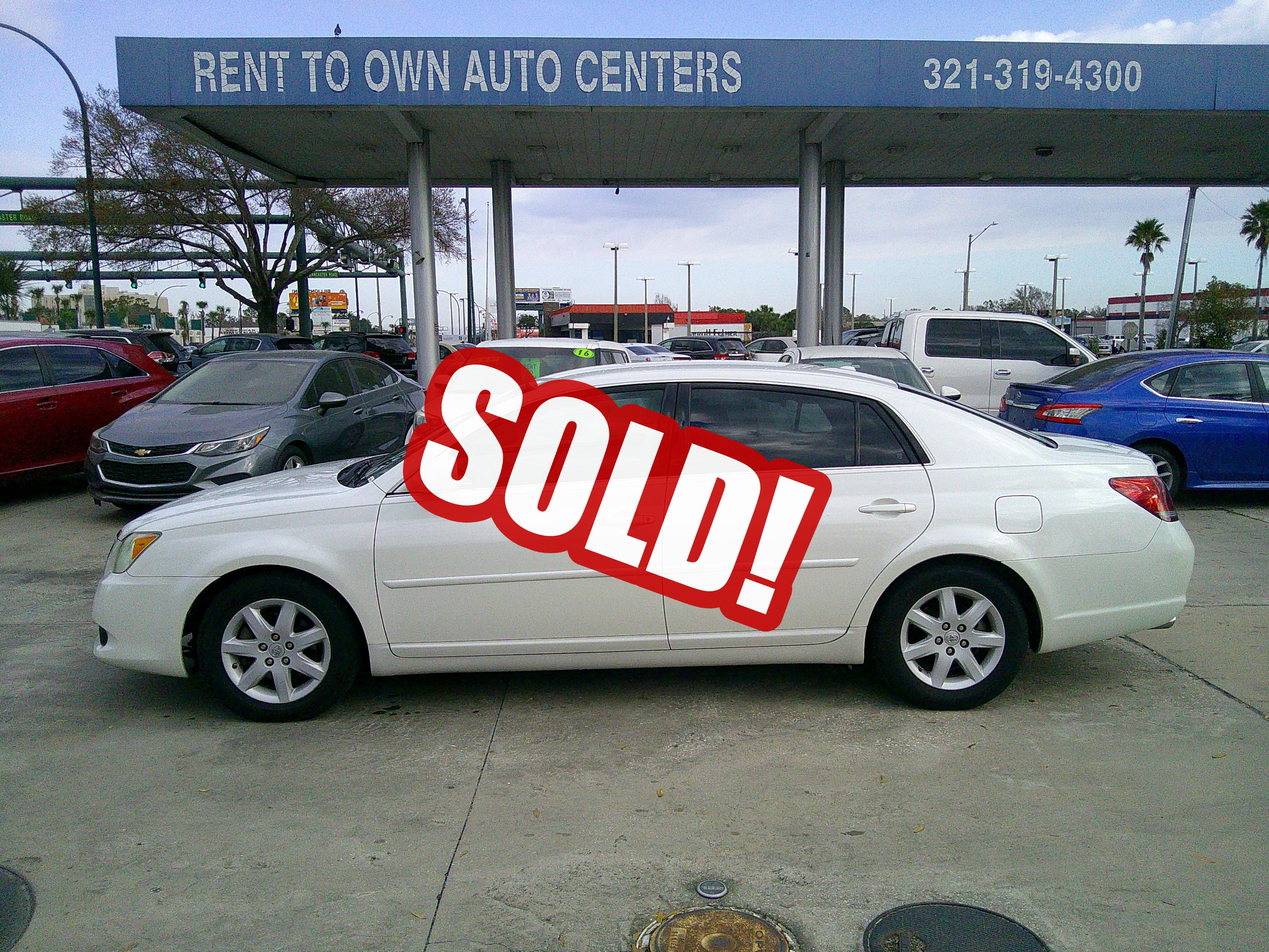
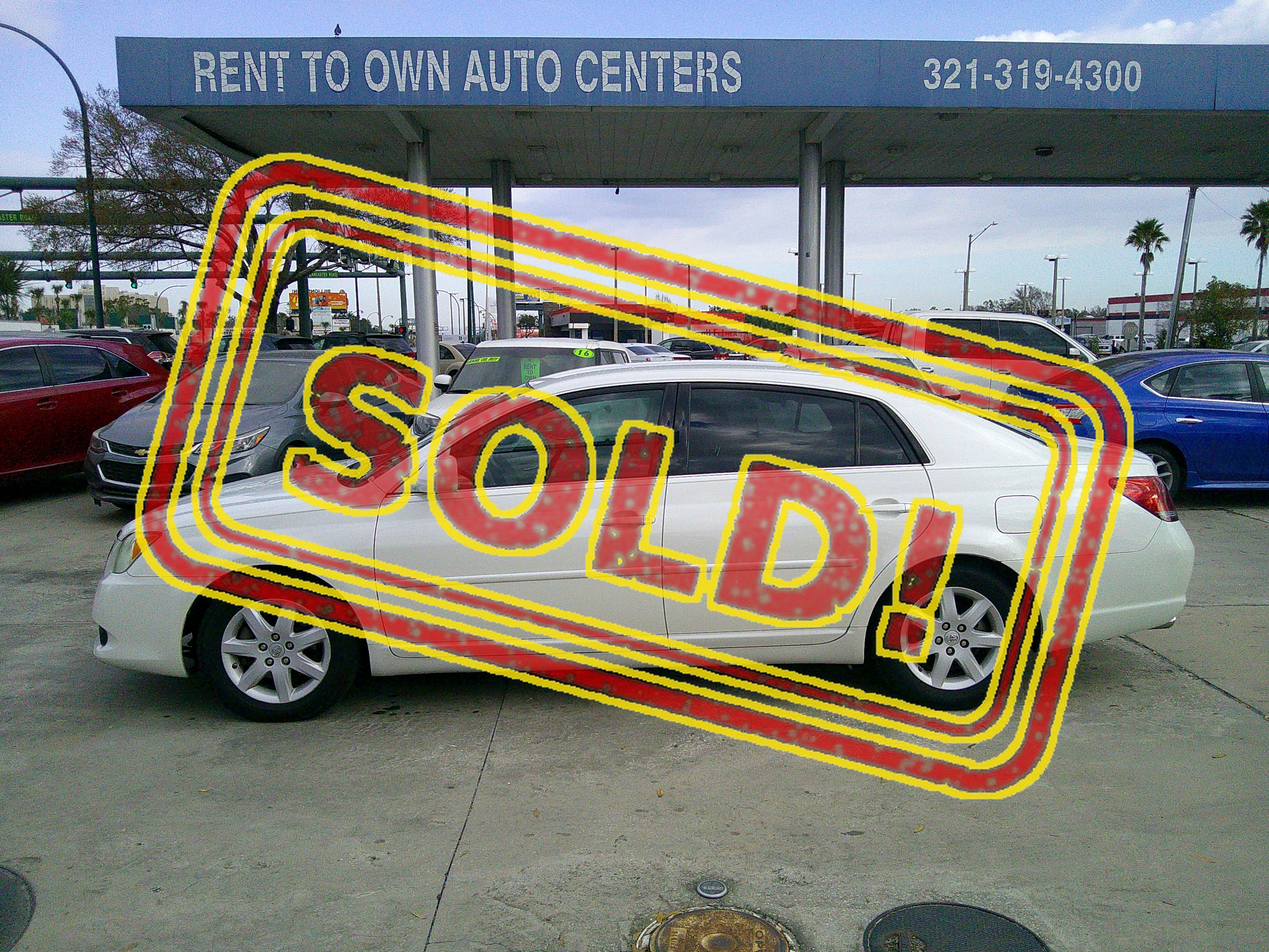
SOLDRTO: mark RTO7295 as sold

Changed region(s): [[0.0938, 0.155, 0.9062, 0.837]]

diff --git a/orlando.html b/orlando.html
@@ -526,11 +526,11 @@
 
       <div class="col-md-4 mb-4">
         <div class="card">
-          <img src="./images/cars/7295.JPG" class="card-img-top" alt="..." />
+          <img src="./images/cars/sold/7295.JPG" class="card-img-top" alt="..." />
 
           <div class="card-body">
             <h5 class="card-title">2009 Toyota Avalon</h5>
-            <p class="card-text">RTO7295 <span style="color:red "> RTO $750 DOWN! </span> </p>
+            <p class="card-text">RTO7295 <span style="color:red "> SOLD! </span> </p>
             <!-- <a href="#" class="btn btn-primary">View Details</a>  -->
           </div>
         </div>
